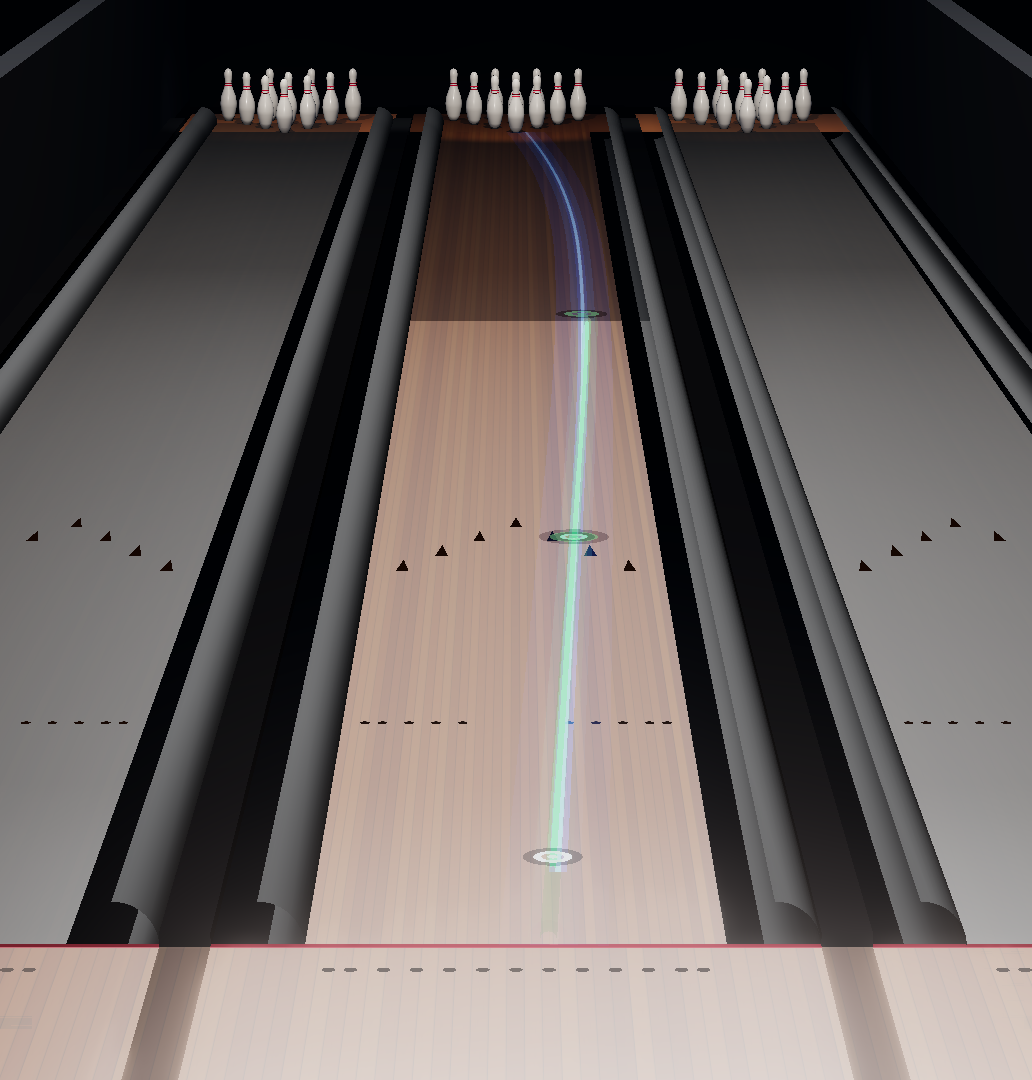
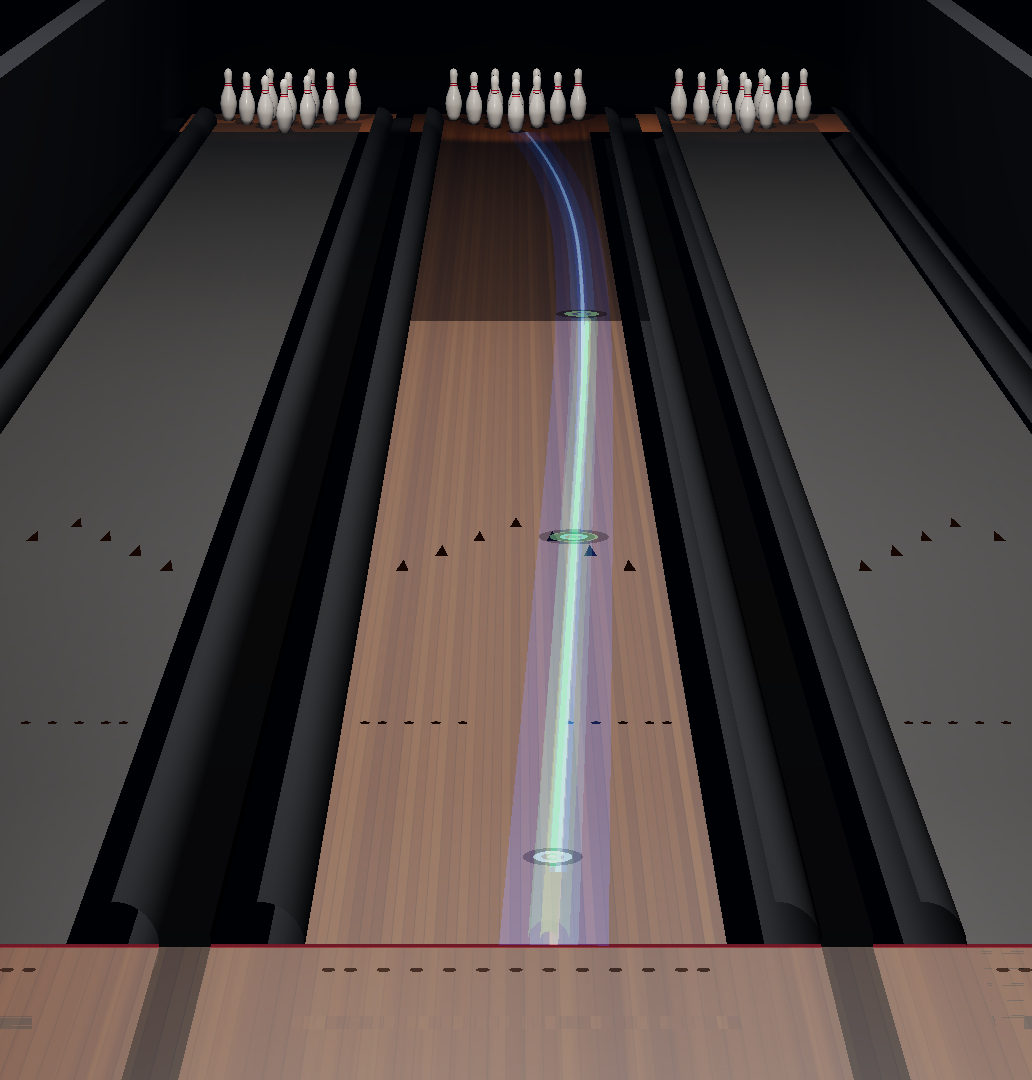
DEC-127 lane card: color/exposure match + overlay sizing to spec (final visual pass)
Closes the two visual diffs Shayne flagged on compare_farlane_vs_design.png.

Color/exposure (lane_card.html): the WebGL render was brighter than the
design renders. Root cause was reflections, not exposure (ACES shoulder
absorbed exposure changes). Cut lane clearcoat 0.8->0.08, envMapIntensity
0.5->0.1, environmentIntensity ->0.03, darkened neighbor lane to 0x1b1b1b
and the wood lightness curve. Measured vs lane_render_far_lane_not_read@3x:
center -4.9% / neighbor +5.5% / background -2.5% luminance, wood hue 20 vs
21 deg -- within the ~5% acceptance bar.

Overlay sizing (ShotLaneView.swift): glass callouts + top note were ~1.5x
the design. LaneGlassLabel set to spec (title 11 / value 20 bold / sub 11
pt) at the 344x360 pt card; far-lane note made compact (one title + one
subline, top-left). Sub-labels resolved: Laydown "board . N ft", Arrows
"board . target N", Breakpoint "board . N ft", Entry "board . N deg".

Montages regenerated in compare/; APP_DESIGN_CHANGES bumped to v1.5.
Release rebuilt + installed on device. pytest 438 passed.

diff --git a/ios/LaneSight/LaneRender/lane_card.html b/ios/LaneSight/LaneRender/lane_card.html
@@ -18,23 +18,23 @@ const DATA=JSON.parse(decodeURIComponent(Q.get('d')));
 const W=+(Q.get('w')||358),H=+(Q.get('h')||300);
 const renderer=new THREE.WebGLRenderer({antialias:true,preserveDrawingBuffer:true});
 renderer.setPixelRatio(window.devicePixelRatio);renderer.setSize(W,H);
-renderer.toneMapping=THREE.ACESFilmicToneMapping;renderer.toneMappingExposure=0.9;
+renderer.toneMapping=THREE.ACESFilmicToneMapping;renderer.toneMappingExposure=1.09;
 renderer.shadowMap.enabled=true;renderer.shadowMap.type=THREE.PCFSoftShadowMap;
 document.body.appendChild(renderer.domElement);
 const scene=new THREE.Scene();scene.background=new THREE.Color(0x020a14);scene.fog=new THREE.Fog(0x020a14,55,110);
-const pm=new THREE.PMREMGenerator(renderer);scene.environment=pm.fromScene(new RoomEnvironment(),0.04).texture;scene.environmentIntensity=0.12;
+const pm=new THREE.PMREMGenerator(renderer);scene.environment=pm.fromScene(new RoomEnvironment(),0.04).texture;scene.environmentIntensity=0.03;
 const LANE=3.4583,BOARD=LANE/39,GUT=0.77;
 const bx=b=>-LANE/2+(b-0.5)*BOARD; // board 1 = right side when looking at the pins
 function tex(w,h,draw,rep){const c=document.createElement('canvas');c.width=w;c.height=h;draw(c.getContext('2d'),w,h);const t=new THREE.CanvasTexture(c);t.colorSpace=THREE.SRGBColorSpace;t.anisotropy=16;t.wrapS=t.wrapT=THREE.RepeatWrapping;if(rep)t.repeat.set(...rep);return t;}
-const wood=(g,w,h)=>{const n=39,bw=w/n;for(let i=0;i<n;i++){const v=Math.abs(Math.sin(i*12.9898)*43758.5453)%1;const d=v*14-7;g.fillStyle=`hsl(${27+d*0.4},${62}%,${47+d*0.7}%)`;g.fillRect(i*bw,0,bw,h);for(let k=0;k<60;k++){g.fillStyle=`rgba(110,60,25,${Math.random()*0.06})`;g.fillRect(i*bw+Math.random()*bw,Math.random()*h,1,30+Math.random()*120);}g.fillStyle='rgba(50,28,10,.45)';g.fillRect(i*bw,0,1.2,h);}};
-const laneMat=new THREE.MeshPhysicalMaterial({map:tex(780,4096,wood,[1,3]),roughness:0.25,clearcoat:0.8,clearcoatRoughness:0.1,envMapIntensity:0.5});
+const wood=(g,w,h)=>{const n=39,bw=w/n;for(let i=0;i<n;i++){const v=Math.abs(Math.sin(i*12.9898)*43758.5453)%1;const d=v*14-7;g.fillStyle=`hsl(${27+d*0.4},${62}%,${37+d*0.7}%)`;g.fillRect(i*bw,0,bw,h);for(let k=0;k<60;k++){g.fillStyle=`rgba(110,60,25,${Math.random()*0.06})`;g.fillRect(i*bw+Math.random()*bw,Math.random()*h,1,30+Math.random()*120);}g.fillStyle='rgba(50,28,10,.45)';g.fillRect(i*bw,0,1.2,h);}};
+const laneMat=new THREE.MeshPhysicalMaterial({map:tex(780,4096,wood,[1,3]),roughness:0.5,clearcoat:0.08,clearcoatRoughness:0.35,envMapIntensity:0.1});
 const plane=(w,d,m,x,y,z)=>{const p=new THREE.Mesh(new THREE.PlaneGeometry(w,d),m);p.rotation.x=-Math.PI/2;p.position.set(x,y,z);p.receiveShadow=true;scene.add(p);return p;};
 const box=(w,h,d,m,x,y,z)=>{const b=new THREE.Mesh(new THREE.BoxGeometry(w,h,d),m);b.position.set(x,y,z);b.receiveShadow=true;scene.add(b);return b;};
 const PITCH=LANE+2*GUT+0.42;
-const nbMat=laneMat.clone();nbMat.color=new THREE.Color(0x3a3a3a);
+const nbMat=laneMat.clone();nbMat.color=new THREE.Color(0x1b1b1b);
 for(const cx of [-PITCH,0,PITCH]){
   plane(LANE,64,cx===0?laneMat:nbMat,cx,0,30);plane(LANE+2*GUT,12,laneMat,cx,0,-6);
-  [-1,1].forEach(s=>{const g=new THREE.Mesh(new THREE.CylinderGeometry(GUT/2,GUT/2,62,24,1,true,0,Math.PI),new THREE.MeshStandardMaterial({color:0x0b1119,metalness:.25,roughness:.55,side:THREE.DoubleSide}));g.rotation.set(Math.PI/2,0,Math.PI);g.position.set(cx+s*(LANE/2+GUT/2),0,31);scene.add(g);});
+  [-1,1].forEach(s=>{const g=new THREE.Mesh(new THREE.CylinderGeometry(GUT/2,GUT/2,62,24,1,true,0,Math.PI),new THREE.MeshStandardMaterial({color:0x0b1119,metalness:0,roughness:.8,side:THREE.DoubleSide}));g.rotation.set(Math.PI/2,0,Math.PI);g.position.set(cx+s*(LANE/2+GUT/2),0,31);scene.add(g);});
   box(0.42,0.14,62,new THREE.MeshStandardMaterial({color:0x0a111b,roughness:.95,metalness:0,envMapIntensity:0.1}),cx+PITCH/2,0.05,31);
   // arrows and dots
   const dark=new THREE.MeshBasicMaterial({color:0x2a1608});
@@ -49,11 +49,11 @@ for(const cx of [-PITCH,0,PITCH]){
   box(LANE+2*GUT+0.42,3.4,1.0,new THREE.MeshStandardMaterial({color:0x07101c,roughness:.6}),cx,4.9,63.4);
   box(LANE+2*GUT,0.06,0.06,new THREE.MeshStandardMaterial({color:0x6ad1ff,emissive:0x3fb8ff,emissiveIntensity:1.6}),cx,3.15,62.9);
   box(LANE+2*GUT+0.42,7,0.4,new THREE.MeshStandardMaterial({color:0x03070e}),cx,3.5,66);
-  const sl=new THREE.SpotLight(0xfff2dc,55,20,0.7,0.5,1.4);sl.position.set(cx,4.6,58);sl.target.position.set(cx,0,61.2);sl.castShadow=true;sl.shadow.mapSize.set(1024,1024);scene.add(sl,sl.target);
+  const sl=new THREE.SpotLight(0xfff2dc,36,20,0.7,0.5,1.4);sl.position.set(cx,4.6,58);sl.target.position.set(cx,0,61.2);sl.castShadow=true;sl.shadow.mapSize.set(1024,1024);scene.add(sl,sl.target);
 }
 [-1,1].forEach(s=>box(0.5,4,80,new THREE.MeshStandardMaterial({color:0x0a1626,roughness:.7}),s*(1.5*PITCH+0.4),2,30));
-scene.add(new THREE.HemisphereLight(0xa9c4ff,0x140c06,0.6));
-const dl=new THREE.DirectionalLight(0xffeedd,2.1);dl.position.set(2,25,-40);dl.target.position.set(0,0,30);scene.add(dl,dl.target);
+scene.add(new THREE.HemisphereLight(0xa9c4ff,0x140c06,0.38));
+const dl=new THREE.DirectionalLight(0xffeedd,1.35);dl.position.set(2,25,-40);dl.target.position.set(0,0,30);scene.add(dl,dl.target);
 // ---- shot paths ----
 const deg=a=>Math.tan(a*Math.PI/180)*12/1.0641;
 function herm(pts,n=60){const o=[];for(let i=0;i<pts.length-1;i++){const a=pts[i],b=pts[i+1],h=b.z-a.z;for(let k=0;k<=n;k++){if(i>0&&k===0)continue;const t=k/n,t2=t*t,t3=t2*t;o.push([a.z+t*h,(2*t3-3*t2+1)*a.b+(t3-2*t2+t)*h*a.m+(-2*t3+3*t2)*b.b+(t3-t2)*h*b.m]);}}return o;}

diff --git a/ios/LaneSight/Sources/Result/ShotLaneView.swift b/ios/LaneSight/Sources/Result/ShotLaneView.swift
@@ -175,13 +175,14 @@ struct ProjectedLabel: Identifiable, Equatable {
 private struct LaneGlassLabel: View {
     let label: ProjectedLabel
     var body: some View {
-        VStack(spacing: 1) {
-            Text(label.title).font(.system(size: 9, weight: .semibold)).foregroundStyle(label.color)
-            Text(label.value).font(.system(size: 15, weight: .bold)).foregroundStyle(.white)
-            Text(label.sub).font(.system(size: 8)).foregroundStyle(LS.textSecondary)
+        // Design spec (measured at the 344×360 pt card): title 11 / value 20 bold / sub 11 pt.
+        VStack(alignment: .leading, spacing: 0) {
+            Text(label.title).font(.system(size: 11, weight: .semibold)).foregroundStyle(label.color)
+            Text(label.value).font(.system(size: 20, weight: .bold)).foregroundStyle(.white)
+            Text(label.sub).font(.system(size: 11)).foregroundStyle(LS.textSecondary)
         }
-        .padding(.horizontal, 8).padding(.vertical, 5).frame(maxWidth: .infinity)
-        .background(Color(hex: 0x001018).opacity(0.78), in: RoundedRectangle(cornerRadius: 10))
+        .padding(.horizontal, 10).padding(.vertical, 6).frame(maxWidth: .infinity, alignment: .leading)
+        .background(Color(hex: 0x001018).opacity(0.82), in: RoundedRectangle(cornerRadius: 10))
         .overlay(RoundedRectangle(cornerRadius: 10).strokeBorder(label.color.opacity(0.8), lineWidth: 1))
     }
 }

diff --git a/03_ENGINEERING/APP_DESIGN_CHANGES.md b/03_ENGINEERING/APP_DESIGN_CHANGES.md
@@ -1,5 +1,5 @@
 # App design changes: build queue
-Status: ACTIVE · Version: 1.4 · Last Updated: 2026-11-02 · Owner: Shayne
+Status: ACTIVE · Version: 1.5 · Last Updated: 2026-11-03 · Owner: Shayne
 Decision: DEC-091 (Figma "Target state – v3.7" is the app's design source; every design change lands here as a build item).
 
 ## How this works
@@ -190,3 +190,6 @@ Shayne tested 3 on-device uploads and flagged result-screen defects. Fixed + re-
 
 ### Progress — 2026-11-02 (b) · lane card = the actual design scene (WKWebView), per Shayne
 The SceneKit re-implementation didn't match the WebGL render (oversaturated wood, flat neighbor wedges, box arrows) and drew a hook into the pins the far lane didn't measure. **Changed approach: the lane card now embeds the design scene itself** — `02_DESIGN/target_state/lane_render/lane3d.html` + three.js r160, **bundled locally** in `ios/LaneSight/LaneRender/` (folder reference via `project.yml`), rendered in a `WKWebView` served over a custom `lanerender://` scheme so the ES-module importmap resolves **with no network (airplane-mode safe)**. The shot's data is passed as JSON (dense measured path, target line, key points → markers, camera, handedness) and the scene draws the lane, wood, arrows, pins, gutters, dimmed neighbors, the glowing path, the target corridor and the marker rings with its own camera + materials. SwiftUI overlays the result chip, legend, the top far-lane note and the glass callouts (pinned to the scene's own projected points, read back as `window.__pts`). **Data-honesty fix:** when the far lane is gated (DEC-065), DATA.`cut` STOPS the path and dims the lane past the last measured distance — the ball path never hooks into pins we didn't measure (matches the render's far-lane-not-read `cut`). SceneKit `ShotLaneView` retired. Screenshots regenerated in `compare/` (`compare_measured_vs_shot_card.png`, `compare_farlane_vs_design.png`) — the far-lane-off card is now the SAME scene as `lane_render_far_lane_not_read@3x.png`. **Remaining DIFFERS:** (a) honest copy "Back lane not measured yet …" vs the design's camera-spot copy (DEC-065 policy, not a camera problem); (b) callouts round to integer boards + show "board" (the "board · target N" / "· N ft" sub-labels appear once an intent / breakpoint distance exist); (c) below-card rings/coach reflect the staged preview account's data-state (<10 shots, no target). Builds (Release + sim) succeed; render is a single static frame (airplane-safe by construction — all assets bundled, no fetch).
+
+### Progress — 2026-11-03 · lane card color/exposure + overlay sizing, per Shayne
+Closed the two visual diffs Shayne flagged on `compare_farlane_vs_design.png`. **(1) Exposure/color:** the WebGL render was brighter than the design (neighbor lanes light-gray, wood bleached). Root cause was not exposure (ACES shoulder absorbed it) but reflections — cut the lane's `clearcoat` 0.8→0.08 and `envMapIntensity` 0.5→0.1, dropped `environmentIntensity` to 0.03, darkened the neighbor-lane color to `0x1b1b1b` and the wood lightness curve. Measured against `lane_render_far_lane_not_read@3x.png`: **center-lane −4.9%, neighbor +5.5%, background −2.5% mean luminance; wood hue 20° vs 21°** — within the ~5% acceptance bar. **(2) Overlay sizing:** glass callouts + top note were ~1.5× the design; set `LaneGlassLabel` to spec **title 11 / value 20 bold / sub 11 pt** at the 344×360 pt card, and made the far-lane note compact (one title + one subline, top-left, never over the pins). Sub-labels now resolved (closes 2026-11-02 (b) DIFFERS (b)): Laydown "board · N ft", Arrows "board · target N", Breakpoint "board · N ft", Entry "board · N°". Montages regenerated in `compare/`; Release rebuilt + installed on device (00008150…). **Remaining DIFFERS unchanged:** (a) honest DEC-065 far-lane copy; (c) below-card rings/coach reflect the staged preview account's data-state.
